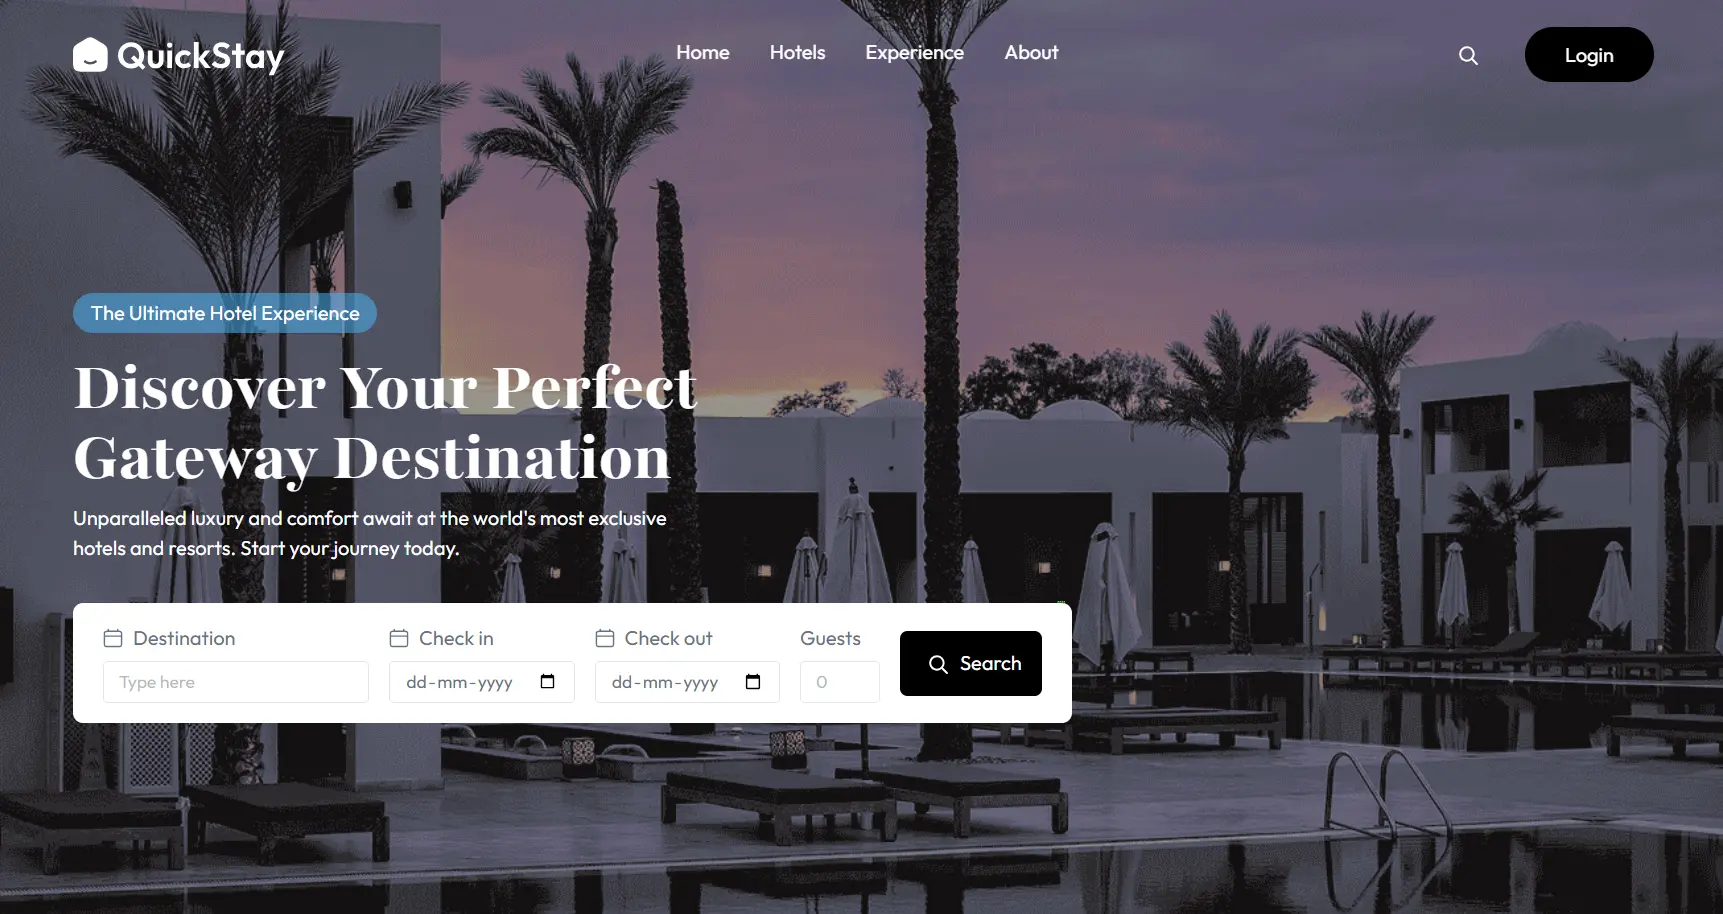
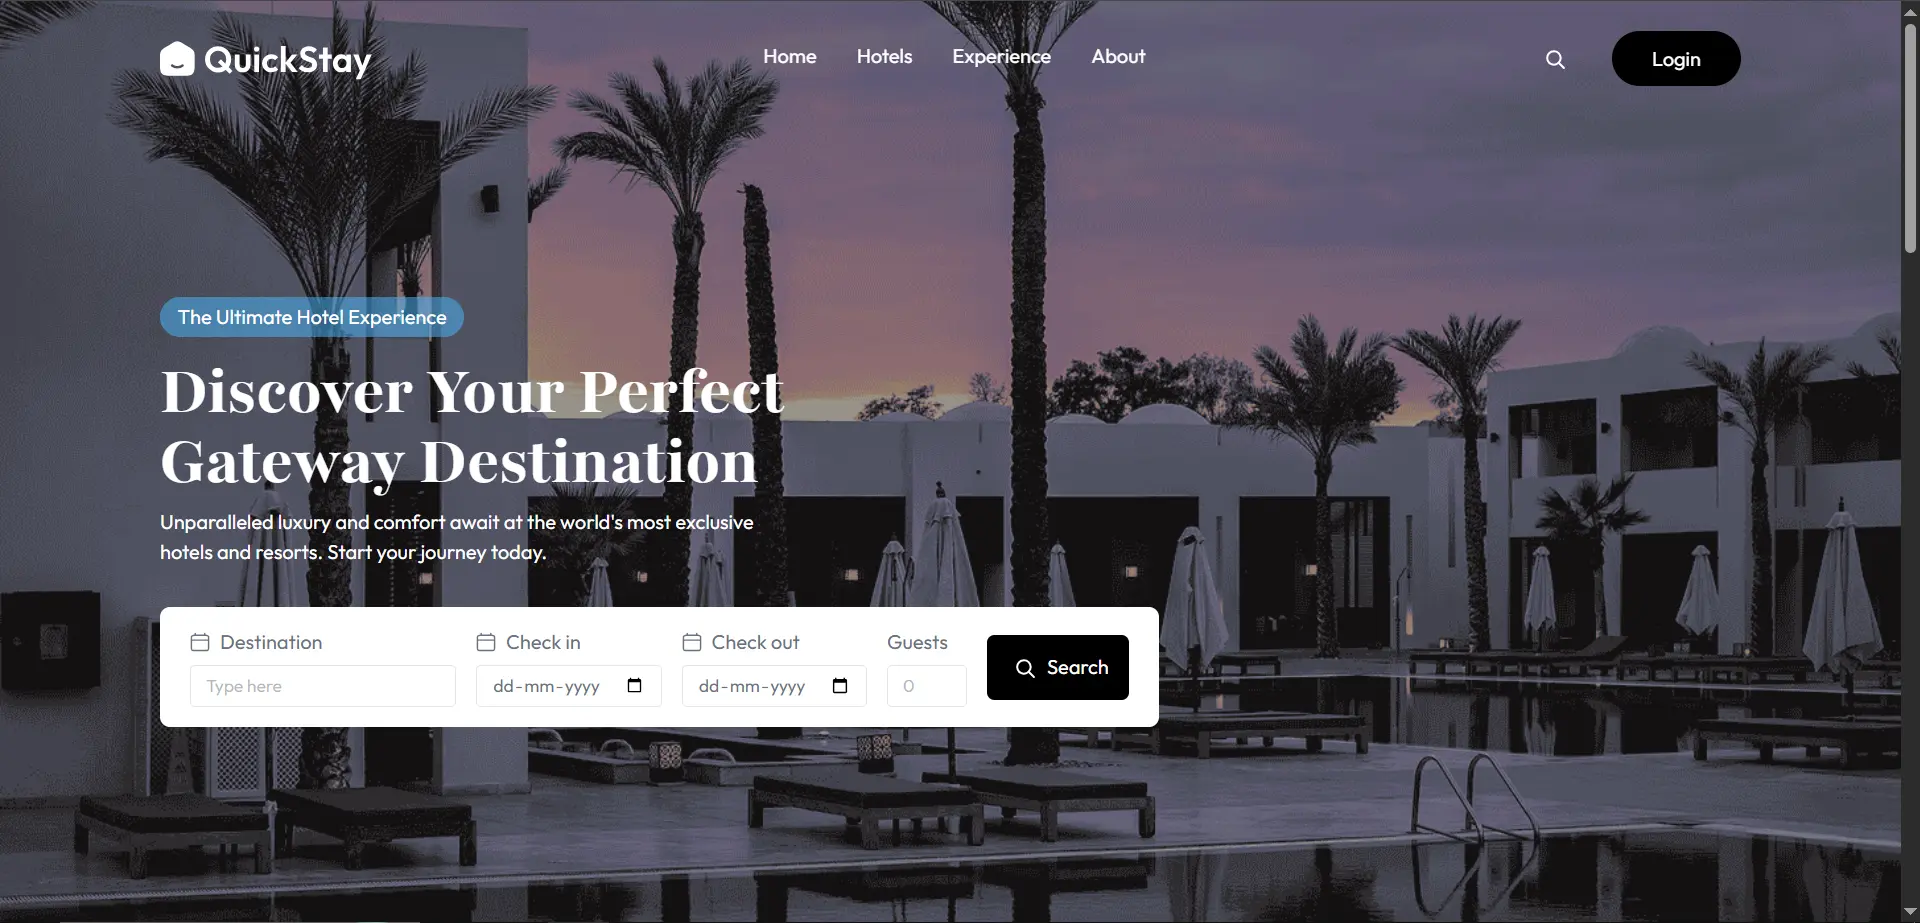
Data Update

diff --git a/src/components/About.jsx b/src/components/About.jsx
@@ -25,14 +25,15 @@ const About = () => {
         </p>
 
         <p className="mt-8 text-[1.5rem] md:text-[1.6rem] leading-[2] text-[#444]">
-          Passionate Full Stack Developer focused on building scalable web
-          applications, automation workflows and modern user experiences.
+          Full Stack Developer passionate about building modern web
+          applications, automation tools, and practical digital solutions with
+          clean and user-focused interfaces.
         </p>
 
         <p className="mt-6 text-[1.5rem] md:text-[1.6rem] leading-[2] text-[#444]">
-          Experienced with React.js, MERN Stack, Django and Chrome Extension
-          Development. I enjoy creating products that combine clean UI with
-          practical engineering.
+          Experienced with React.js, TypeScript, Node.js, Django, PostgreSQL,
+          WordPress, and Chrome Extension Development. I enjoy turning ideas
+          into reliable, scalable, and easy-to-use products.
         </p>
 
         <div className="mt-10 flex flex-col gap-4">

diff --git a/src/assets/assets.js b/src/assets/assets.js
@@ -1,6 +1,6 @@
-import logo from "./logo.png";
-import hero from "./hero.png";
-import contact from "./contact.png";
+import logo from "./logo.webp";
+import hero from "./hero.webp";
+import contact from "./contact.webp";
 
 // Projects
 import hubProspect from "./projects/hubProspect.webp";
@@ -8,6 +8,7 @@ import hotelBooking from "./projects/hotelBooking.webp";
 import hubspotForms from "./projects/hubspotForms.webp";
 import linkedInData from "./projects/linkedInData.webp";
 import doctorAppointment from "./projects/doctorAppointment.webp";
+import grocery from "./projects/grocery.webp";
 import fashionScaper from "./projects/fashionScaper.webp";
 import carRental from "./projects/carRental.webp";
 import ems from "./projects/ems.webp";
@@ -27,6 +28,7 @@ export const assets = {
   hubspotForms,
   linkedInData,
   doctorAppointment,
+  grocery,
   fashionScaper,
   carRental,
   ems,
